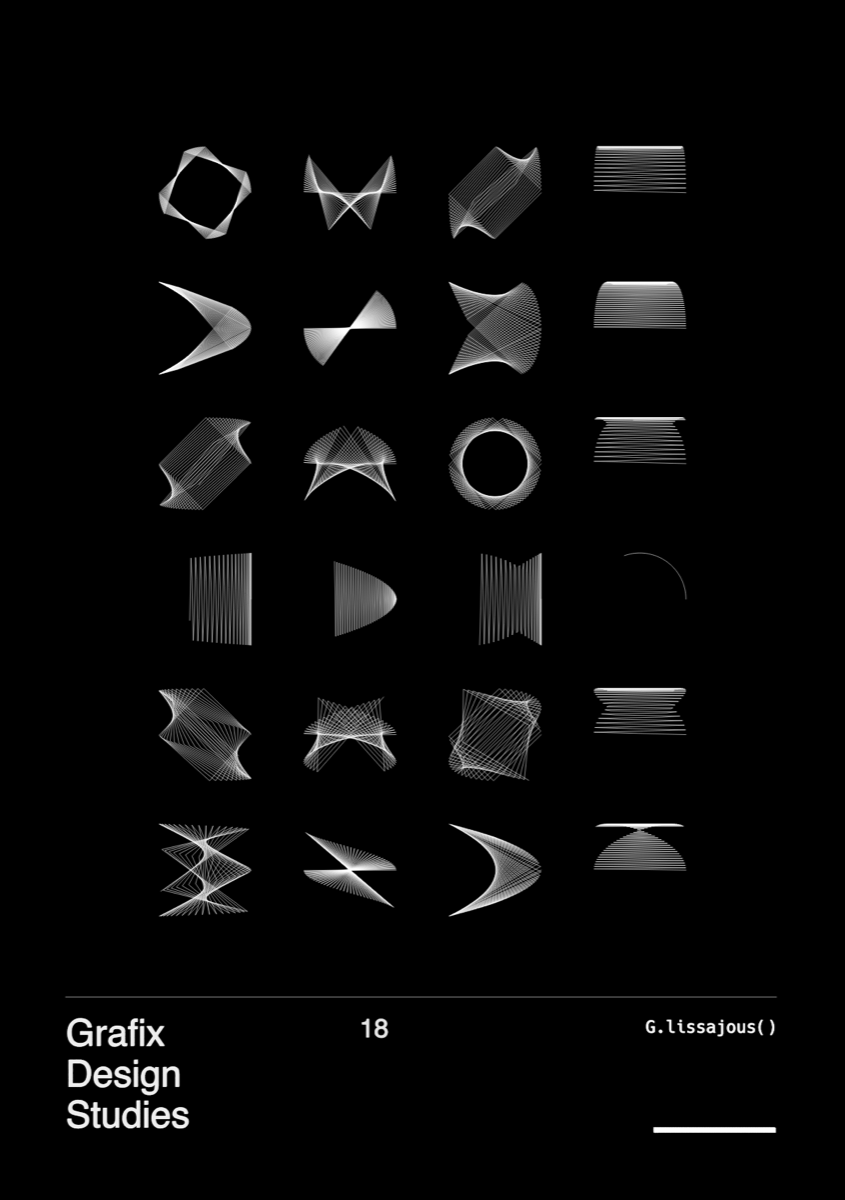
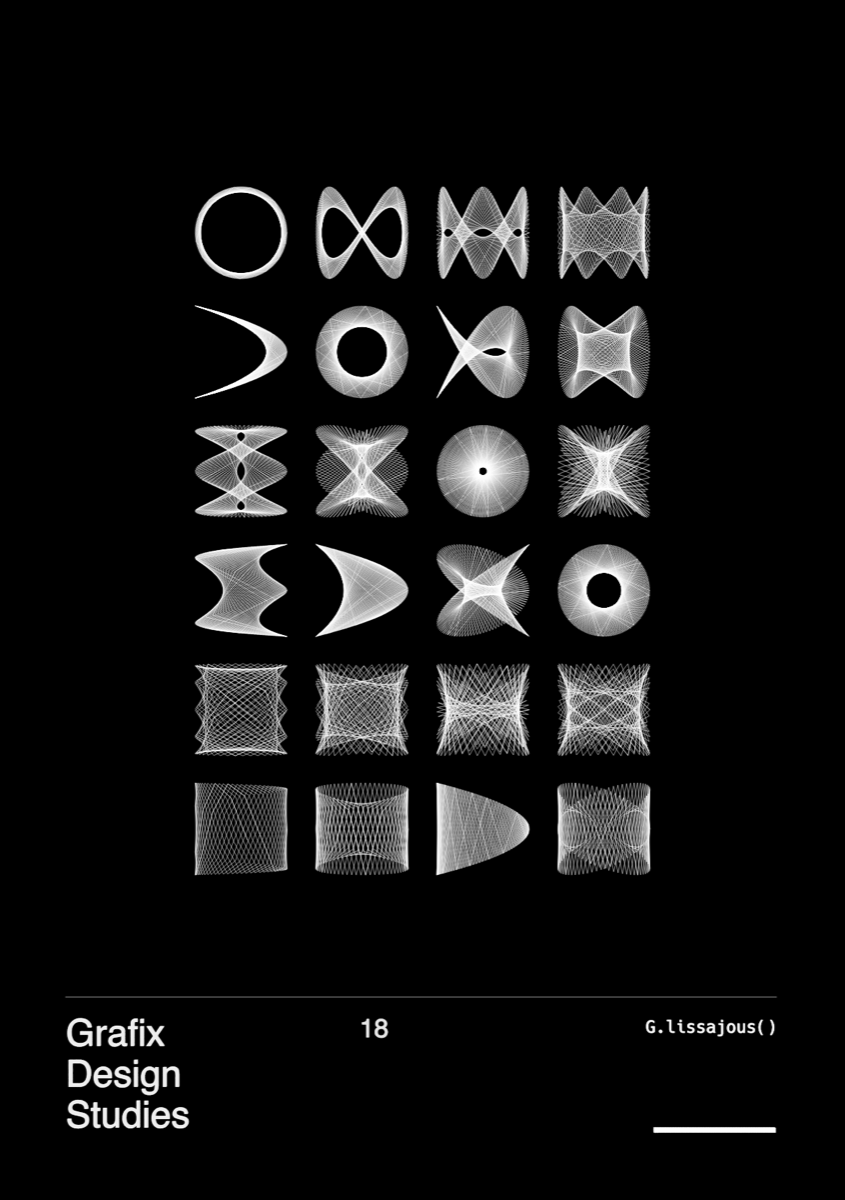
📝

Changed region(s): [[0.1846, 0.1233, 0.8308, 0.7708]]

diff --git a/sketch/readme/grn/18.py b/sketch/readme/grn/18.py
@@ -1,34 +1,50 @@
-from __future__ import annotations
-
 from pathlib import Path
 
-import numpy as np
-from numba import njit
-
-from grafix import E, G, P, run
-from grafix.api import primitive
-from grafix.core.parameters.meta import ParamMeta
-from grafix.core.realized_geometry import RealizedGeometry
+from grafix import G, L, P, cc, run
 
 # A5
 CANVAS_WIDTH = 148
 CANVAS_HEIGHT = 210
 
+# CONST
+N_ROWS = 6
+N_COLS = 4
+
 
 def draw(t):
-    g = G.text()
-    e = E.fill()
-    g = e(g)
     frame = P.grn_a5_frame(
         activate=True,
         show_layout=False,
-        layout_color_rgb255=(191, 191, 191),
-        number_text=str(Path(__file__).stem),
-        explanation_density=500.0,
+        number_text=Path(__file__).stem,
+        explanation_text="G.lissajous()",
+        explanation_density=450.0,
         template_color_rgb255=(255, 255, 255),
     )
 
-    return g, frame
+    gs = []
+    # WHITE_SPACEの幅、高さをccで制御できるようにする
+    WS_X = cc[1] * 50.0  # 0.0 ~ 20.0
+    WS_Y = cc[2] * 50.0  # 0.0
+    OFFSET_Y = (cc[3] - 0.5) * 50
+
+    # coefs
+    coef_a = int(cc[4] * 10) + 1  # 1 ~ 11
+    coef_b = int(cc[5] * 10) + 1  #
+
+    for i in range(N_COLS):
+        for j in range(N_ROWS):
+            cx = WS_X + (i + 0.5) * (CANVAS_WIDTH - 2 * WS_X) / N_COLS
+            cy = WS_Y + (j + 0.5) * (CANVAS_HEIGHT - 2 * WS_Y) / N_ROWS + OFFSET_Y
+            g = G.lissajous(
+                center=(cx, cy, 0.0),
+                a=j + coef_a,
+                b=i + coef_b,
+                samples=10,
+            )
+            gs.append(g)
+    gs = L.layer(gs, color=(1.0, 1.0, 1.0))
+
+    return gs, frame
 
 
 if __name__ == "__main__":
